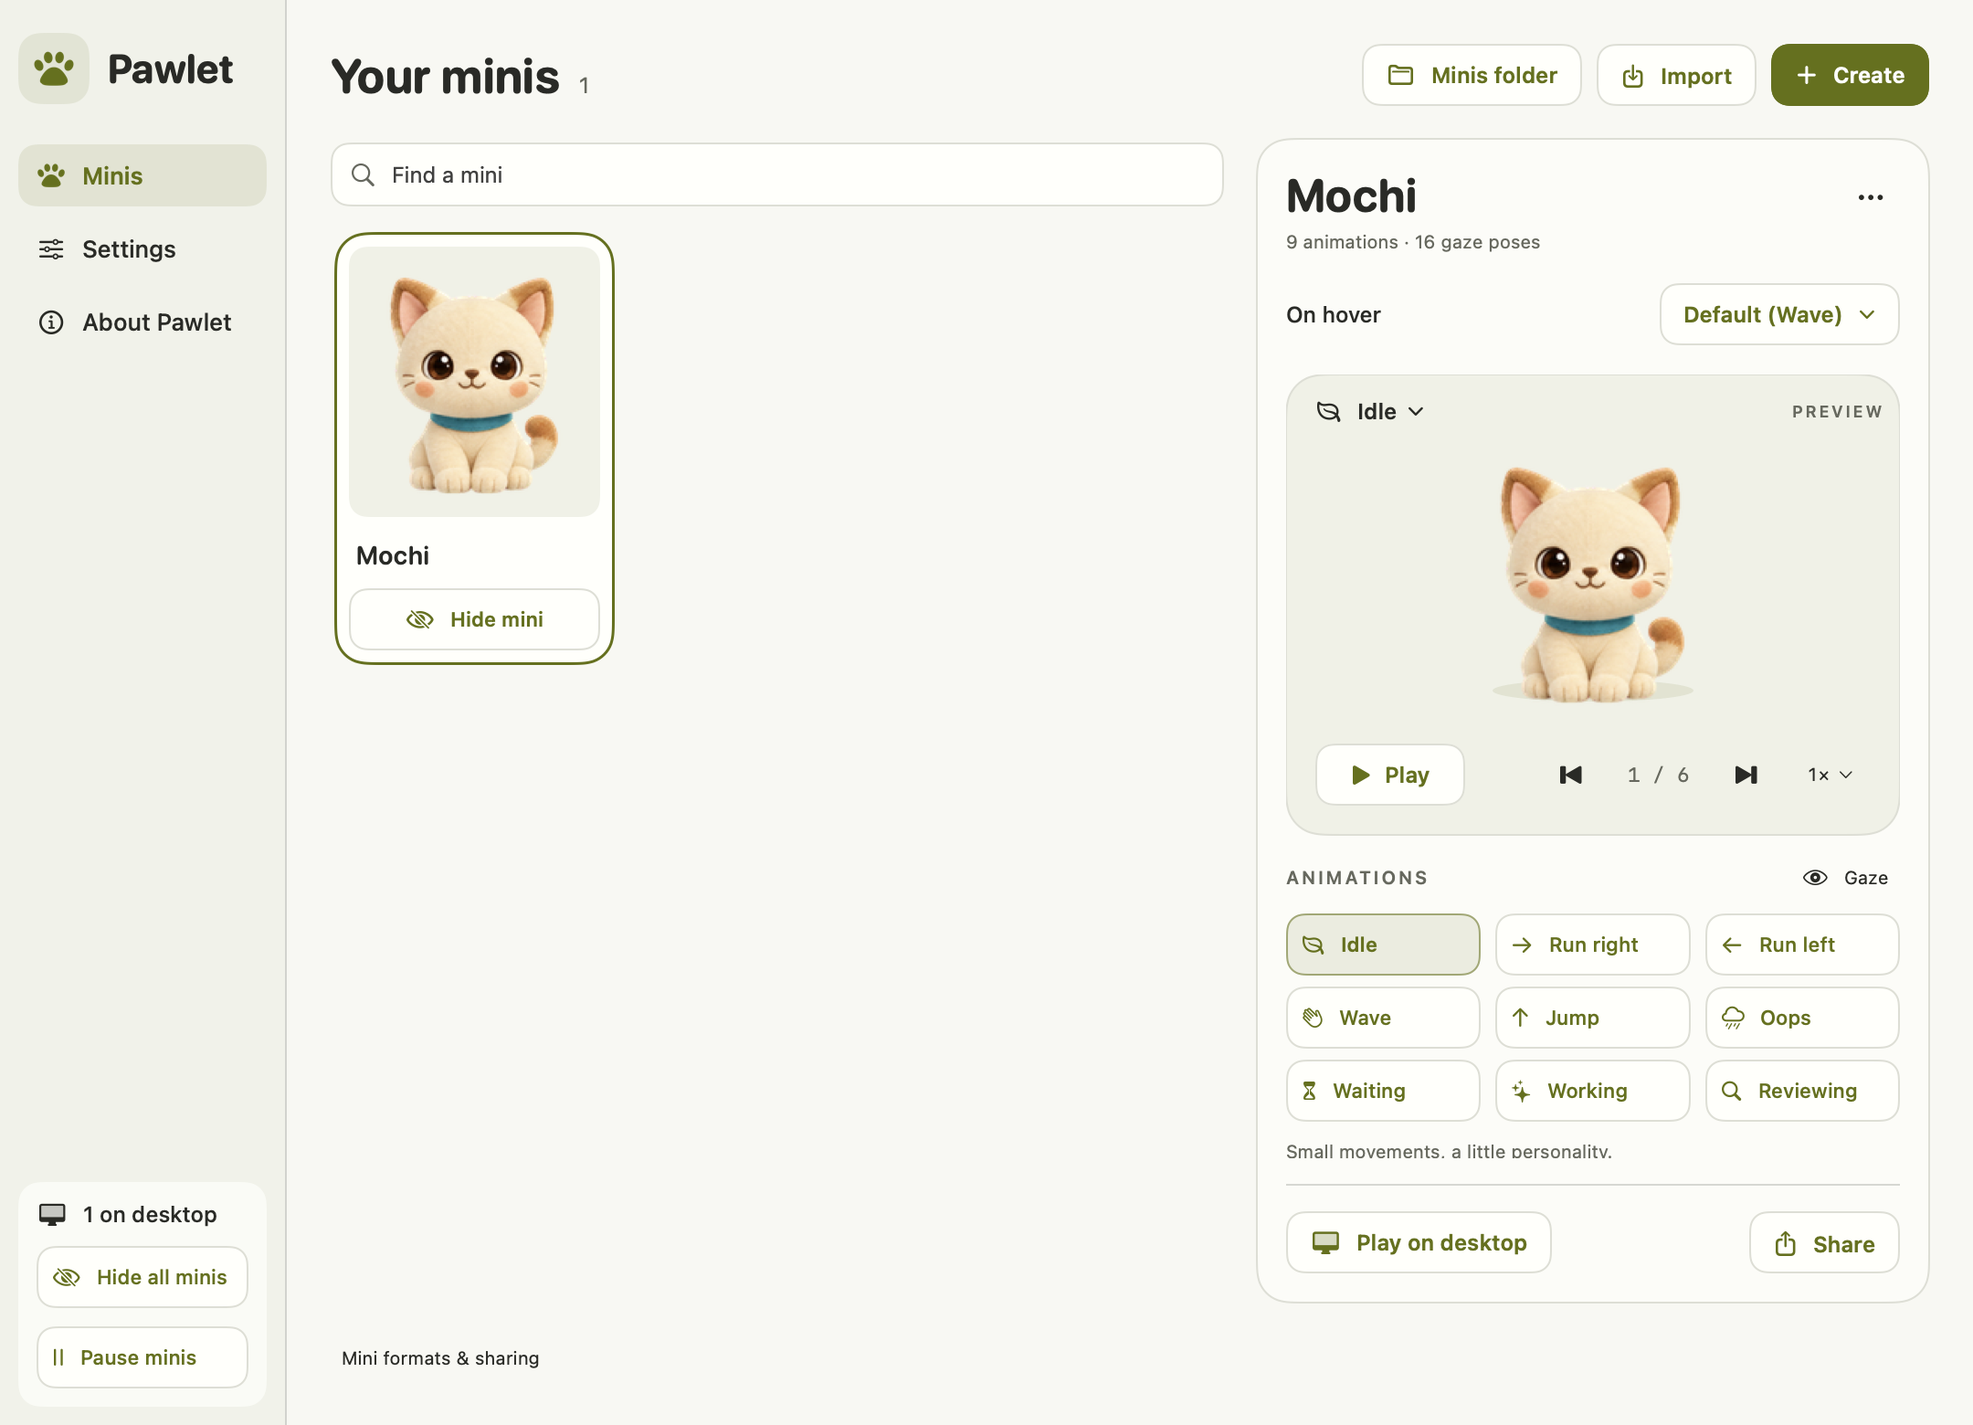
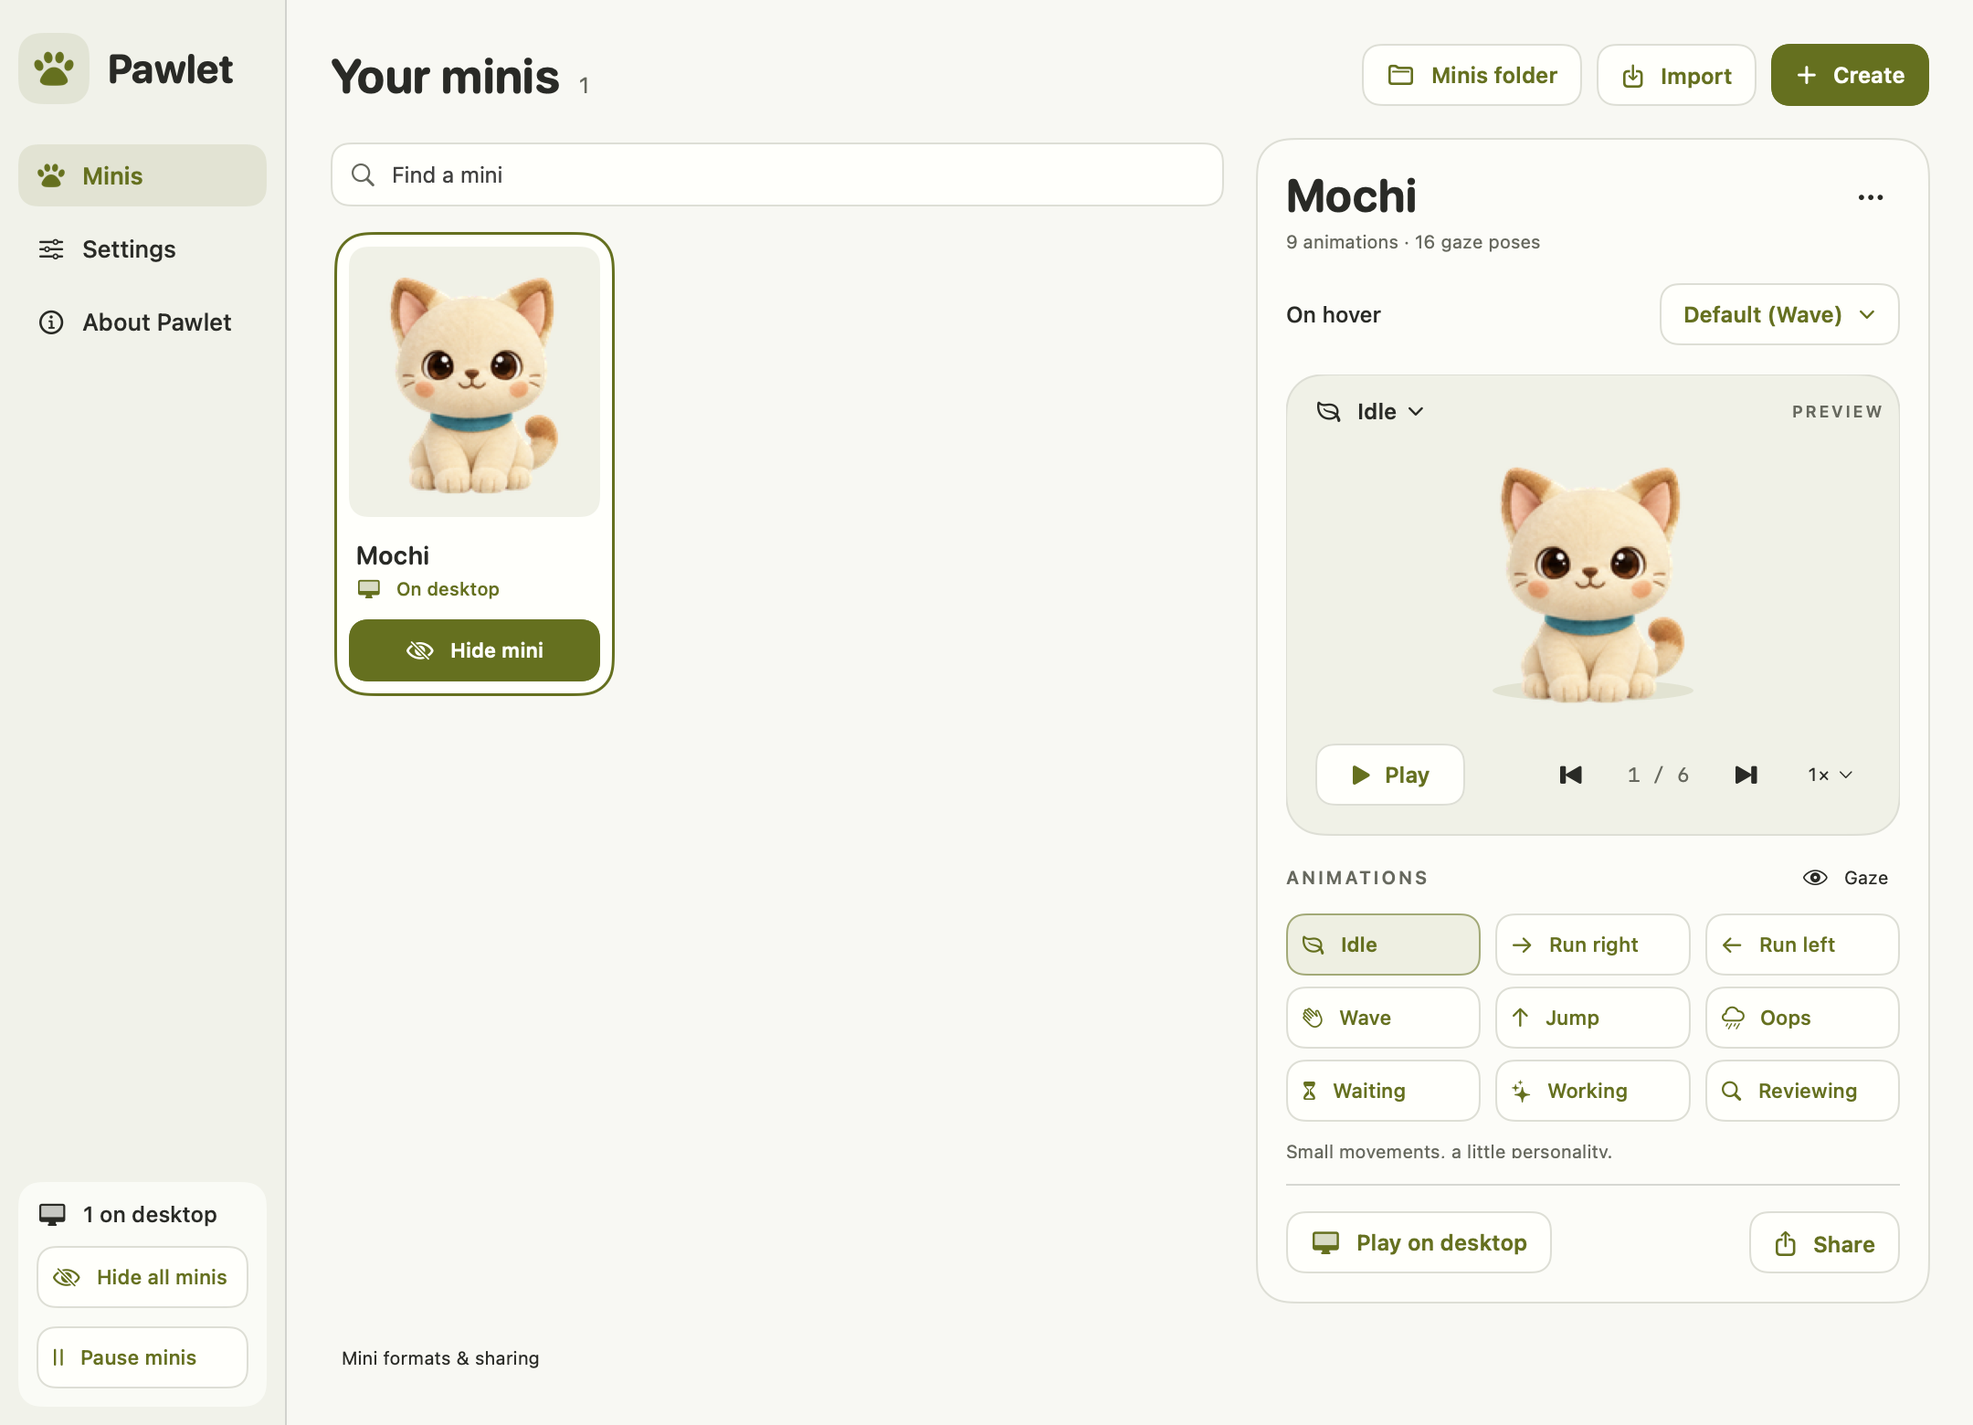
Clarify mini visibility and simplify hover states

Changed region(s): [[0.1551, 0.4, 0.3102, 0.4923]]

diff --git a/Sources/Pawlet/library-view.swift b/Sources/Pawlet/library-view.swift
@@ -11,6 +11,7 @@ struct LibraryView: View {
     @State private var removing = false
     @State private var formatHelp = false
     @State private var search = ""
+    @State private var hoveredMiniID: String?
     @FocusState private var searchFocused: Bool
 
     var body: some View {
@@ -151,18 +152,28 @@ struct LibraryView: View {
                         .frame(height: 132).frame(maxWidth: .infinity).padding(.vertical, 8)
                         .background(PawletTheme.stage, in: PawletTheme.roundedShape(10))
                         .clipShape(PawletTheme.roundedShape(10))
-                    Text(pet.manifest.name).font(.system(size: 14, weight: .semibold, design: .rounded))
-                        .lineLimit(1).padding(.horizontal, 4).padding(.bottom, 2)
+                    VStack(alignment: .leading, spacing: 4) {
+                        Text(pet.manifest.name).font(.system(size: 14, weight: .semibold, design: .rounded))
+                            .foregroundStyle(PawletTheme.ink).lineLimit(1)
+                        Label(visible ? "On desktop" : "Hidden", systemImage: visible ? "desktopcomputer" : "eye.slash")
+                            .font(.system(size: 10, weight: .medium))
+                            .foregroundStyle(visible ? petAccent : PawletTheme.secondary)
+                    }.padding(.horizontal, 4).padding(.bottom, 2)
                 }.frame(maxWidth: .infinity, alignment: .leading).contentShape(Rectangle())
-            }.buttonStyle(PawletPlainStyle(radius: 10)).accessibilityLabel("Select \(pet.manifest.name)")
+            }.buttonStyle(.plain).accessibilityLabel("Select \(pet.manifest.name)")
+                .accessibilityValue(visible ? "On desktop" : "Hidden")
                 .accessibilityAddTraits(selected ? .isSelected : []).accessibilityRemoveTraits(selected ? [] : .isSelected)
             Button { app.togglePetVisibility(pet.id) } label: {
                 Label(visible ? "Hide mini" : "Show mini", systemImage: visible ? "eye.slash" : "eye")
-            }.buttonStyle(PawletActionStyle(compact: true, fillsWidth: true))
+            }.buttonStyle(PawletActionStyle(prominent: visible, compact: true, fillsWidth: true))
                 .accessibilityLabel("\(visible ? "Hide" : "Show") \(pet.manifest.name) on desktop")
                 .help("Show or hide \(pet.manifest.name) with one click; keep the current preview selected.")
         }.padding(8).background(PawletTheme.surface, in: PawletTheme.roundedShape(18))
-            .overlay(PawletTheme.roundedShape(18).strokeBorder(selected ? petAccent : PawletTheme.border, lineWidth: selected ? 1.5 : 1).allowsHitTesting(false))
+            .overlay(PawletTheme.roundedShape(18).strokeBorder(selected || hoveredMiniID == pet.id ? petAccent : PawletTheme.border, lineWidth: selected || hoveredMiniID == pet.id ? 1.5 : 1).allowsHitTesting(false))
+            .onHover { hovering in
+                if hovering { hoveredMiniID = pet.id }
+                else if hoveredMiniID == pet.id { hoveredMiniID = nil }
+            }.onDisappear { if hoveredMiniID == pet.id { hoveredMiniID = nil } }
     }
 
     private var settingsPage: some View { SettingsView(app: app) }
@@ -177,7 +188,7 @@ struct LibraryView: View {
             Text("The app works without Codex. Codex is only used when you choose to create new artwork.")
             Text("No accounts, telemetry or network listener. Imported minis are image and metadata files; they don't run code.").font(.callout).foregroundStyle(.secondary)
             Button("Learn about mini packs") { formatHelp = true }.buttonStyle(PawletActionStyle())
-            Text("Version 0.6.2 · macOS 13+").font(.caption).foregroundStyle(.secondary)
+            Text("Version 0.6.3 · macOS 13+").font(.caption).foregroundStyle(.secondary)
             Spacer()
         }.padding(36).frame(maxWidth: .infinity, alignment: .leading)
     }

diff --git a/Sources/Pawlet/control-styles.swift b/Sources/Pawlet/control-styles.swift
@@ -17,14 +17,14 @@ struct ControlSurface: ViewModifier {
     var isPressed = false
 
     private var foregroundColor: Color {
-        if prominent { return .white }
-        if isHovered && isEnabled { return PawletTheme.accent }
+        if prominent { return PawletTheme.buttonInk }
+        if selected || isEnabled && (isHovered || isPressed) { return PawletTheme.accent }
         return foreground
     }
     private var borderColor: Color {
         guard bordered else { return .clear }
         if prominent { return PawletTheme.button }
-        if selected || isHovered && isEnabled { return PawletTheme.accent.opacity(0.55) }
+        if selected || isEnabled && (isHovered || isPressed) { return PawletTheme.accent.opacity(0.55) }
         return PawletTheme.border
     }
 
@@ -33,12 +33,10 @@ struct ControlSurface: ViewModifier {
             .foregroundStyle(foregroundColor)
             .background {
                 ZStack {
-                    PawletTheme.roundedShape(radius).fill(selected ? PawletTheme.accent.opacity(0.11) : background)
-                    PawletTheme.roundedShape(radius).fill(prominent ? Color.white.opacity(0.10) : PawletTheme.accent.opacity(0.09))
-                        .opacity(isHovered && isEnabled ? 1 : 0)
-                        .animation(reduceMotion ? nil : InterfaceMotion.hoverFeedback, value: isHovered)
-                    PawletTheme.roundedShape(radius).fill(prominent ? Color.black.opacity(0.13) : PawletTheme.accent.opacity(0.15))
-                        .opacity(isPressed && isEnabled ? 1 : 0)
+                    PawletTheme.roundedShape(radius).fill(background)
+                    PawletTheme.roundedShape(radius).fill(prominent ? Color.black.opacity(0.08) : PawletTheme.accent.opacity(0.11))
+                        .opacity(selected || isEnabled && (isHovered || isPressed) ? 1 : 0)
+                        .animation(reduceMotion || selected || isPressed ? nil : InterfaceMotion.hoverFeedback, value: isHovered)
                 }.allowsHitTesting(false)
             }
             .overlay {
@@ -69,13 +67,13 @@ struct PawletFieldBorder: ViewModifier {
 
     private var borderColor: Color {
         if focused { return PawletTheme.accent }
-        if isHovered { return PawletTheme.accent.opacity(0.55) }
+        if isHovered { return PawletTheme.accent }
         return PawletTheme.border
     }
 
     func body(content: Content) -> some View {
         content.background(PawletTheme.surface, in: PawletTheme.roundedShape(10))
-            .overlay(PawletTheme.roundedShape(10).strokeBorder(borderColor, lineWidth: focused ? 1.5 : 1).allowsHitTesting(false))
+            .overlay(PawletTheme.roundedShape(10).strokeBorder(borderColor, lineWidth: focused || isHovered ? 1.5 : 1).allowsHitTesting(false))
             .onHover { isHovered = $0 }
     }
 }

diff --git a/Sources/Pawlet/design-theme.swift b/Sources/Pawlet/design-theme.swift
@@ -2,19 +2,20 @@ import SwiftUI
 import AppKit
 
 enum PawletTheme {
-    static let canvas = color(light: 0xF8F8F2, dark: 0x1C1E1D)
-    static let surface = color(light: 0xFFFFFB, dark: 0x292C2A)
-    static let stage = color(light: 0xF0F1E6, dark: 0x30362F)
-    static let secondary = color(light: 0x66685D, dark: 0xBAC2BA)
-    static let border = color(light: 0xDDDED4, dark: 0x444A44)
-    static let accent = color(light: 0x627000, dark: 0xA8D4BD)
-    static let button = color(light: 0x627000, dark: 0x345D4E)
-    static let ink = color(light: 0x292A25, dark: 0xECEEE7)
-    static let sidebar = color(light: 0xF1F2E9, dark: 0x202320)
-    static let switchOff = color(light: 0xE2E4D8, dark: 0x3D443D)
-    static let switchBorder = color(light: 0x7A7D73, dark: 0x829083)
-    static let switchThumbOn = color(light: 0xFFFFFB, dark: 0x1C1E1D)
-    static let switchThumbOff = color(light: 0x73766A, dark: 0xC3CBC2)
+    static let canvas = color(light: 0xF8F8F2, dark: 0x1E2018)
+    static let surface = color(light: 0xFFFFFB, dark: 0x282B20)
+    static let stage = color(light: 0xF0F1E6, dark: 0x303426)
+    static let secondary = color(light: 0x66685D, dark: 0xBBC0A8)
+    static let border = color(light: 0xDDDED4, dark: 0x484E39)
+    static let accent = color(light: 0x627000, dark: 0xCCD889)
+    static let button = color(light: 0x627000, dark: 0xBBC96A)
+    static let buttonInk = color(light: 0xFFFFFB, dark: 0x232715)
+    static let ink = color(light: 0x292A25, dark: 0xF0F1E7)
+    static let sidebar = color(light: 0xF1F2E9, dark: 0x23261C)
+    static let switchOff = color(light: 0xE2E4D8, dark: 0x3A402E)
+    static let switchBorder = color(light: 0x7A7D73, dark: 0x89916B)
+    static let switchThumbOn = color(light: 0xFFFFFB, dark: 0x1E2018)
+    static let switchThumbOff = color(light: 0x73766A, dark: 0xB8BEA4)
     static func roundedShape(_ radius: CGFloat) -> RoundedRectangle {
         RoundedRectangle(cornerRadius: radius, style: .continuous)
     }

diff --git a/docs/design.md b/docs/design.md
@@ -4,7 +4,7 @@ Pawlet is a quiet character collection with a small animation studio. The charac
 
 Emil Kowalski’s design engineering guidance informed the restrained motion, direct feedback and interruptible interactions. The UI/UX skill search suggested native translucent chrome and clear hierarchy. Its web landing patterns and luxury fonts did not fit a Mac utility, so the interface uses native system text, rounded display headings and semantic SwiftUI controls.
 
-The palette uses warm off-white surfaces, a muted green stage and a deep green accent. Dark mode maps each role separately rather than darkening a screenshot. The normal secondary text exceeds 4.5:1 against its surfaces in both themes. Selection has a border and accessibility state as well as color. SF Symbols carry consistent action meanings.
+The palette uses warm paper surfaces, a muted olive stage and an olive accent. Dark mode maps each role separately rather than darkening a screenshot. The normal secondary text exceeds 4.5:1 against its surfaces in both themes. Selection has a border and accessibility state as well as color. SF Symbols carry consistent action meanings.
 
 The library toolbar owns actions for the whole collection. Pet options own individual file actions. Search filters the collection without affecting desktop visibility. The selected pet owns one preview, which starts still; choosing an animation is an explicit request to loop it. All nine states are discoverable as chips and in the preview menu. Gaze is included only for supported v2 sheets.
 
@@ -12,10 +12,16 @@ Preview and desktop playback are independent. Each has its own pause and timing 
 
 The library uses a single “Your minis” heading with a quiet count. Navigation keeps visible labels in a compact sidebar, without section captions or repeated taglines. The paw is an original vector drawing with plump oval toes and a smooth rounded triangular pad. The application icon pairs a coral paw with warm cream; template versions follow the interface accent and macOS menu-bar appearance.
 
-Light mode follows the supplied Granola reference with warm paper surfaces, charcoal text and olive accents. The sidebar uses a defined surface rather than a system material. Settings use the same semantic tokens as the library, with compact sections and no page title or subtitle. Switches use contrasting thumbs, separate off-state outlines and native Toggle accessibility representations; the whole row is clickable. Dark mode keeps its forest and mint palette.
+Light mode follows the supplied Granola reference with warm paper surfaces, charcoal text and olive accents. The sidebar uses a defined surface rather than a system material. Settings use the same semantic tokens as the library, with compact sections and no page title or subtitle. Switches use contrasting thumbs, separate off-state outlines and native Toggle accessibility representations; the whole row is clickable. Dark mode adapts those olive greens to warm charcoal surfaces with pale olive accents.
 
 All app-owned rounded surfaces use `PawletTheme.roundedShape`, a SwiftUI continuous rounded rectangle. Backgrounds, clipping and borders share the same geometry. Fields and dropdown shells follow it too; native macOS windows, menus and alerts retain system chrome. Circular slider and switch thumbs stay circular.
 
-Mini cards inset the artwork stage by eight points and round it independently, keeping the title and visibility action inside the outer card. Show and Hide use matching eye symbols and the same outlined accent treatment as choice controls. Sidebar rows define their complete continuous rectangle as the click target.
+Mini cards inset the artwork stage by eight points and round it independently, keeping the title and visibility action inside the outer card. Show and Hide use matching eye symbols; persistent status labels and filled Hide versus outlined Show controls distinguish desktop visibility. Sidebar rows define their complete continuous rectangle as the click target.
 
-All app-owned buttons use shared hover and press surfaces. Pointer hover fades only a background tint over 100 ms with cubic-bezier (0.23, 1, 0.32, 1); press feedback and navigation are immediate. Reduce Motion keeps the tint and removes its fade. Input focus has a persistent accent outline independent of hover. Native NSMenu content is anchored to SwiftUI button triggers so macOS cannot strip their custom hit areas or styling. Menu action targets are retained through the menu lifetime, and the anchor is weakly referenced.
+App-owned controls use shared hover and press surfaces; mini-card selection highlights only its outer border. Pointer hover fades only a background tint over 100 ms with cubic-bezier (0.23, 1, 0.32, 1); press feedback and navigation are immediate. Reduce Motion keeps the tint and removes its fade. Input focus has a persistent accent outline independent of hover. Native NSMenu content is anchored to SwiftUI button triggers so macOS cannot strip their custom hit areas or styling. Menu action targets are retained through the menu lifetime, and the anchor is weakly referenced.
+
+### Interaction states in 0.6.3
+
+Mini-card hover and selection use the same outer accent border; the artwork and name surfaces remain unchanged. Persistent On desktop / Hidden labels describe visibility separately from preview selection. Visible minis have filled Hide controls, while hidden minis have outlined Show controls.
+
+Secondary controls use a single 11% accent overlay for hover, selection and press. Combined states do not add opacity. Primary controls keep their filled hierarchy with the same subtle overlay for hover and press. Dark mode uses warm charcoal surfaces, an olive highlight and dark text on bright filled controls.

diff --git a/README.md b/README.md
@@ -22,7 +22,7 @@ open build/Pawlet.app
 
 The runnable app is **`build/Pawlet.app`** inside your checkout. You can drag it into Applications. Builds support Apple silicon and Intel by default. To update a checkout, quit Pawlet, run `git pull --ff-only`, rebuild, and open the rebuilt app.
 
-The 0.6.2 preview is ad-hoc signed. Developer ID signing and Apple notarization are deferred; no App Store distribution is planned. Downloadable DMG/ZIP previews can be built with `bash scripts/release.sh` or the **Build downloadable preview** GitHub Actions workflow. Until a [GitHub Release](https://github.com/ruzwid/pawlet/releases) is published, cloning and building is the primary installation path. Downloaded previews may need approval in System Settings → Privacy & Security. See [distribution](docs/distribution.md).
+The 0.6.3 preview is ad-hoc signed. Developer ID signing and Apple notarization are deferred; no App Store distribution is planned. Downloadable DMG/ZIP previews can be built with `bash scripts/release.sh` or the **Build downloadable preview** GitHub Actions workflow. Until a [GitHub Release](https://github.com/ruzwid/pawlet/releases) is published, cloning and building is the primary installation path. Downloaded previews may need approval in System Settings → Privacy & Security. See [distribution](docs/distribution.md).
 
 The first launch opens **Your minis**. The compact sidebar keeps Minis, Settings and About close at hand. Use **Import** to add a `.petpack`, mini ZIP, Codex mini folder, `pet.json`, or complete compatible PNG atlas. Use **Share** to export a pack, ordinary ZIP, or Codex folder; **Minis folder** in the top toolbar opens the whole library in Finder. To inspect one mini, choose **Options → Show this mini’s files**. Exported files are revealed in Finder too. Double-clicking a `.petpack` also imports it. Hover over a mini for a brief hello, click to wave, double-click to jump, drag to move it, or right-click for its other poses. The paw in the menu bar lets you reopen the library, show/hide minis, pause, or quit. Closing the library keeps the minis running.
 

diff --git a/CHANGELOG.md b/CHANGELOG.md
@@ -1,5 +1,12 @@
 # Changelog
 
+## 0.6.3
+
+- Keep mini names and their background unchanged during hover; highlight only the outer card border.
+- Show persistent On desktop / Hidden status, with filled Hide and outlined Show controls.
+- Use one shared tint for hover, selection and press, without stacked overlays.
+- Adapt the light theme's olive greens to dark mode with warm charcoal surfaces.
+
 ## 0.6.2
 
 - Inset each mini’s rounded artwork stage inside its card.
